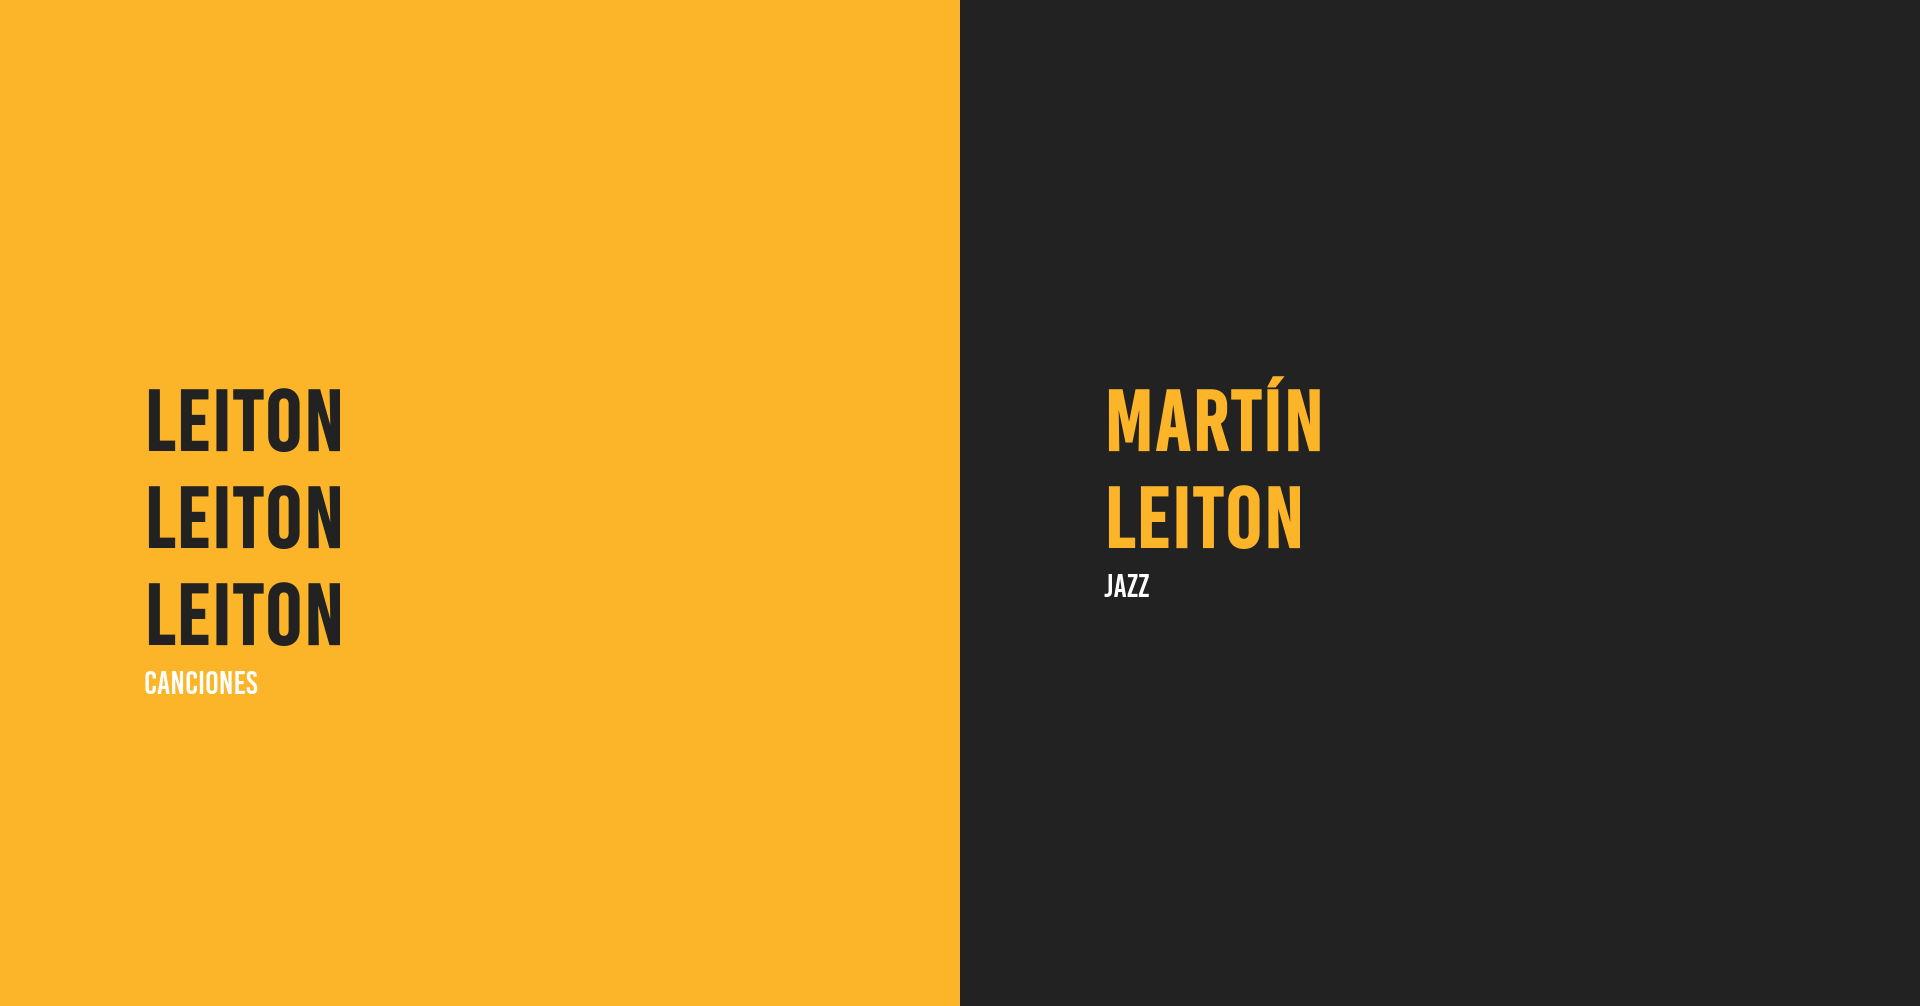
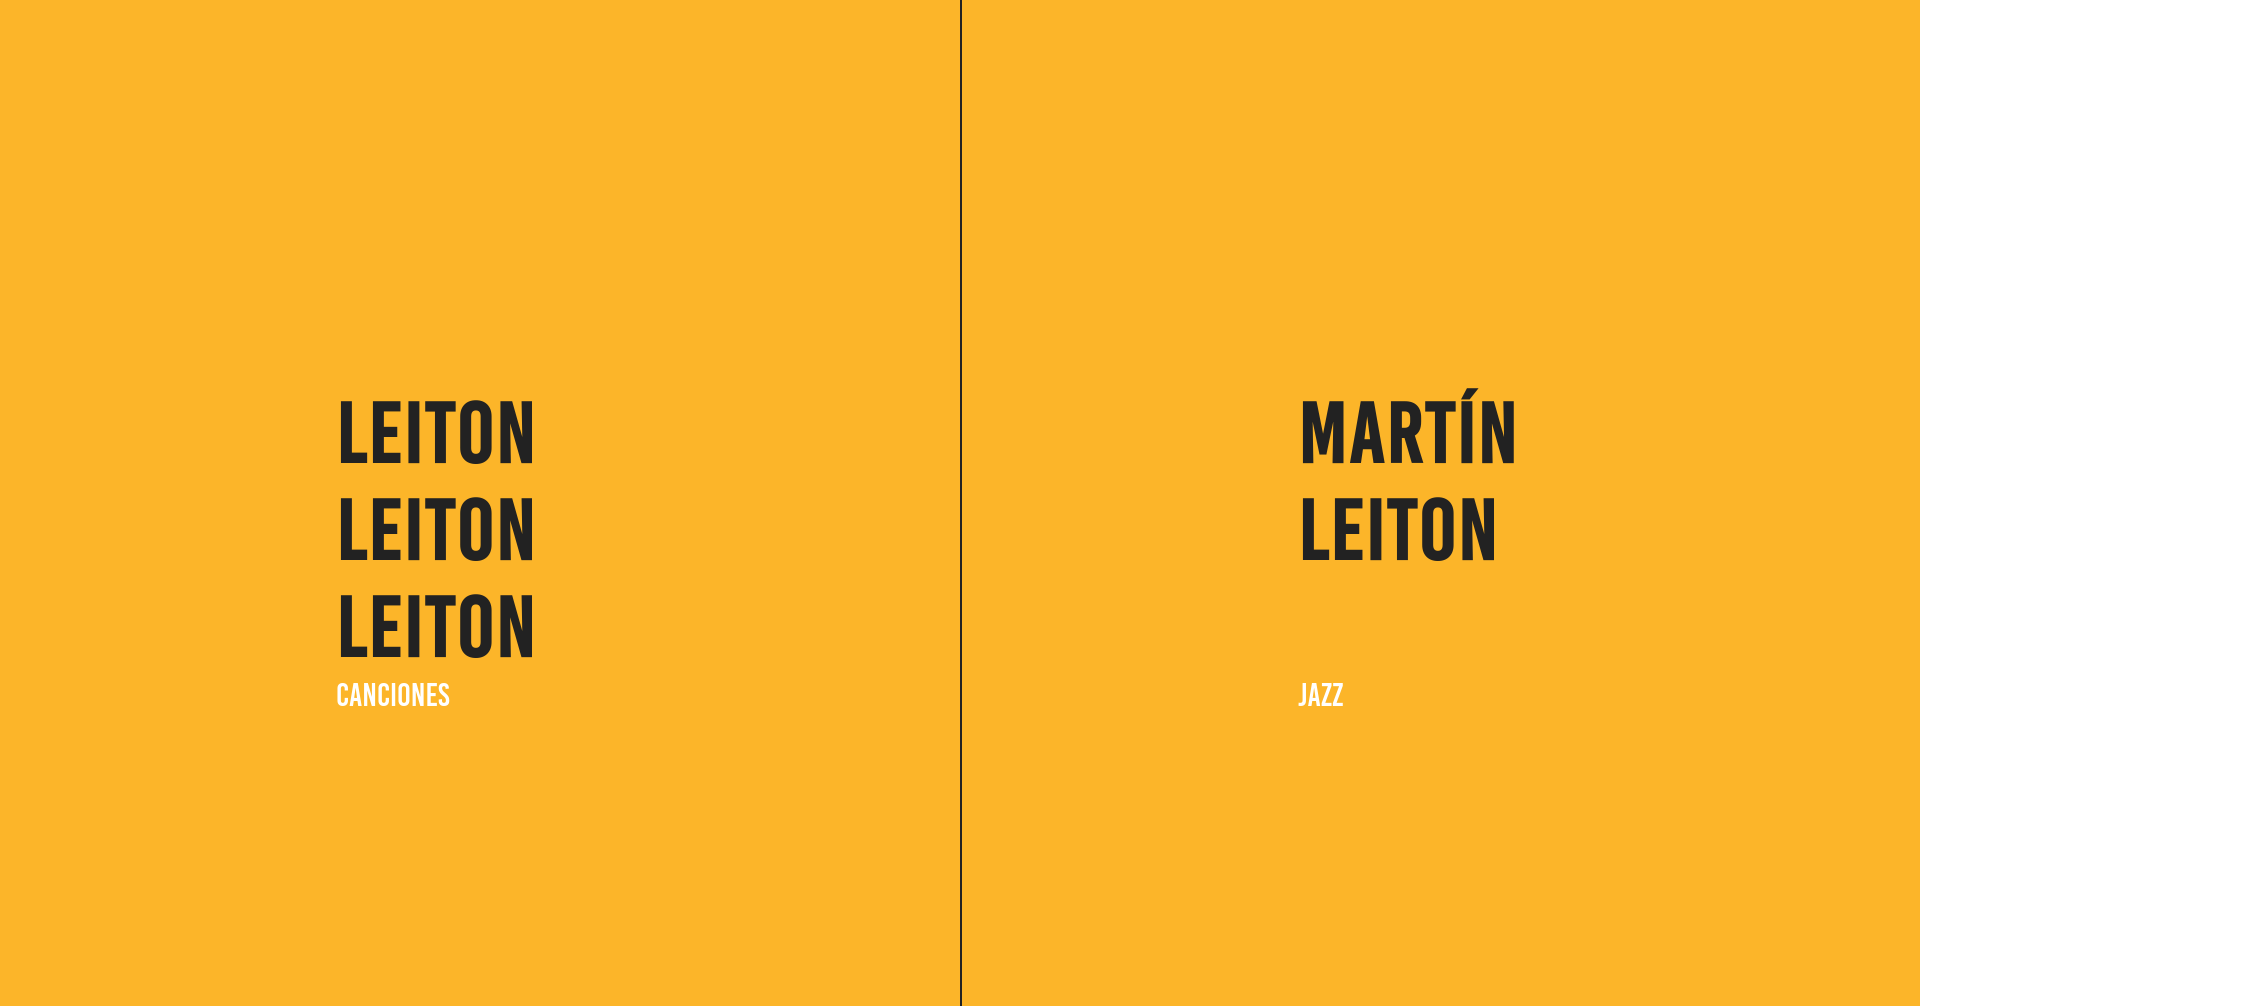
Cambio a un único color en la página de entrada

diff --git a/css/main.css b/css/main.css
@@ -9,8 +9,7 @@
 }
 
 h1 { font-size: calc(3rem + 2vw); }
-h2 { font-size: calc(1.5rem + 2vw);; }
-h3 { font-size: calc(1rem + 2vw); }
+a { text-decoration: none; }
 
 /* Reset */
 
@@ -24,45 +23,54 @@ html, body {
 
 /* Layout */
 
-.dos-mitades {
-  display: grid;
+body {
+  background-color: #fcb529;
   width: 100vw;
   height: 100vh;
-}
-
-.dos-mitades {
+  display: grid;
+  grid-gap: 0px;
   grid-template-columns: repeat(2, 1fr);
-  grid-template-rows: 100vh;
+  grid-template-rows: 1fr 1fr 1fr;
 }
 
-.dos-mitades section {
+body div {
   width: 100%;
 }
 
-.dos-mitades section.canciones,
-.dos-mitades section.canciones .mitad a {
-  text-decoration: none;
-  background-color: #fcb529;
-  color: #222;
-}
-
-.dos-mitades section.jazz,
-.dos-mitades section.jazz .mitad a {
-  text-decoration: none;
-  background-color: #222;
-  color: #fcb529;
-}
-
-.dos-mitades .mitad {
-  padding-left: 15%;
-  padding-top: 30vh;
-}
-
-.dos-mitades .mitad h1 {
+.canciones-title h1,
+.jazz-title h1 {
   margin-bottom: 0;
 }
 
-.dos-mitades section .mitad a.accion {
+.canciones-title,
+.canciones-link,
+.jazz-title,
+.jazz-link {
+  padding-left: 35%;
+}
+
+.canciones-title a,
+.canciones-link a,
+.jazz-title a,
+.jazz-link a {
+  color: #222;
+}
+
+.canciones-link a,
+.jazz-link a {
   font-size: 2rem;
   color: white;
+}
+
+.borde-por-la-izquierda {
+  border-left: 2px #222 solid;
+}
+
+@media only screen and (max-width: 768px) {
+  .canciones-title,
+  .canciones-link,
+  .jazz-title,
+  .jazz-link {
+    padding-left: 15%;
+  }
 }

diff --git a/index.html b/index.html
@@ -7,23 +7,29 @@
 		<link rel="stylesheet" href="css/main.css" />
 	</head>
 	<body>
-		<div class="dos-mitades">
-			<section class="canciones">
-				<div class="mitad">
-					<a href="#">
-						<h1>Leiton<br/>Leiton<br/>Leiton</h1>
-					</a>
-					<a href="#" class="accion">Canciones</a>
-				</div>
-			</section>
-			<section class="jazz">
-				<div class="mitad">
-					<a href="#">
-						<h1>Martín<br/>Leiton</h1>
-					</a>
-					<a href="#" class="accion">Jazz</a>
-				</div>
-			</section>
+
+		<div></div>
+		<div class="borde-por-la-izquierda"></div>
+
+		<div class="canciones-title">
+			<a href="#">
+				<h1>Leiton<br/>Leiton<br/>Leiton</h1>
+			</a>
 		</div>
+
+		<div class="jazz-title borde-por-la-izquierda">
+			<a href="#">
+				<h1>Martín<br/>Leiton</h1>
+			</a>
+		</div>
+
+		<div class="canciones-link">
+			<a href="#" class="accion">Canciones</a>
+		</div>
+
+		<div class="jazz-link borde-por-la-izquierda">
+			<a href="#" class="accion">Jazz</a>
+		</div>
+
 	</body>
 </html>
